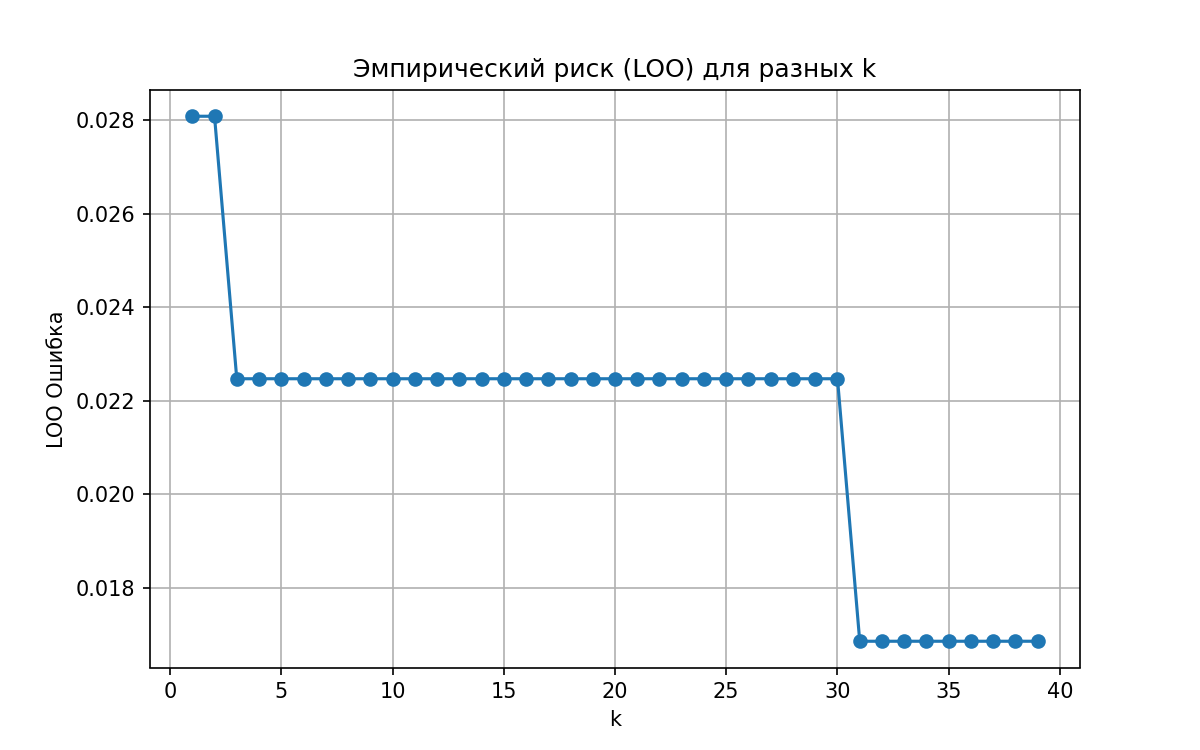
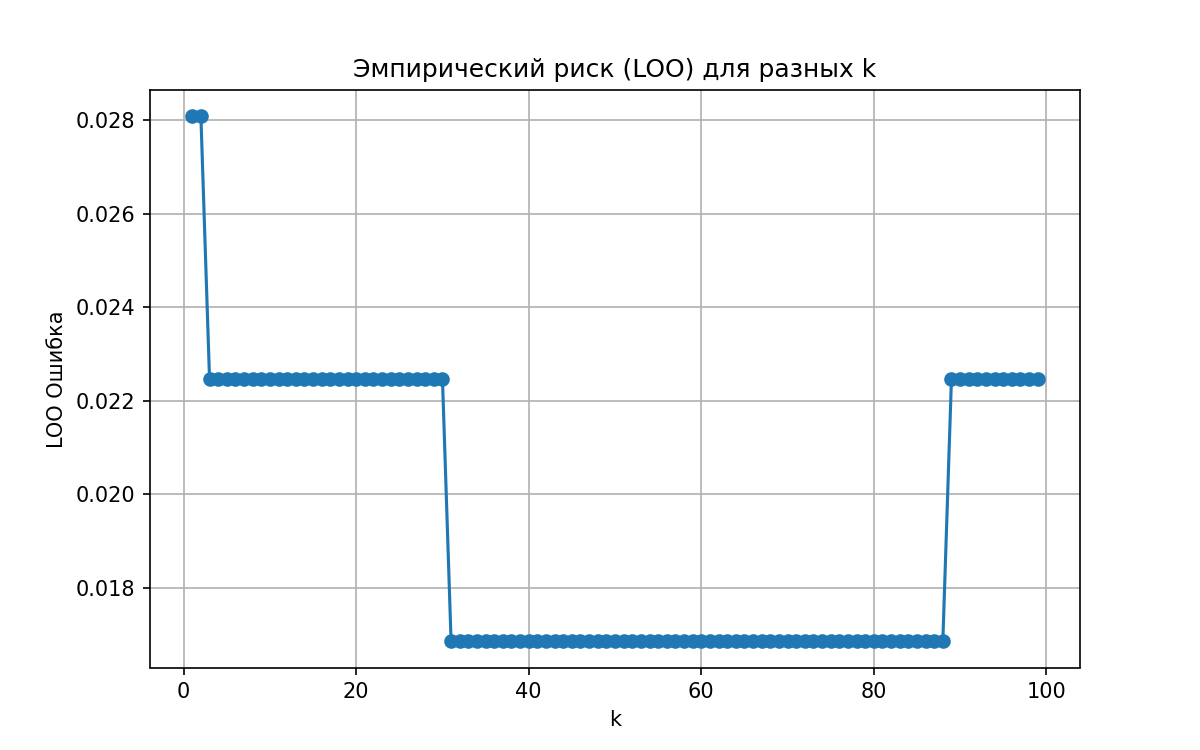
change prototype selection

diff --git a/students/botygin-gv/lab2/source/selection.py b/students/botygin-gv/lab2/source/selection.py
@@ -1,12 +1,13 @@
 import numpy as np
+from itertools import combinations
 from models import ParzenWindowKNN
 from evaluation import loo_validate
 
 
 class PrototypeSelection:
 
-    def __init__(self):
-        pass
+    def __init__(self, max_remove=2):
+        self.max_remove = max_remove
 
     def fit(self, X, y):
         X = np.array(X)
@@ -15,27 +16,40 @@ class PrototypeSelection:
         keep = np.ones(n, dtype=bool)
         best_error = loo_validate(X, y, 1, ParzenWindowKNN)
 
-        changed = True
-        while changed:
-            changed = False
+        while True:
             current_indices = np.where(keep)[0]
-            if len(current_indices) <= 1:
+            if len(current_indices) <= self.max_remove:
                 break
 
-            for idx in reversed(current_indices):
-                temp_keep = keep.copy()
-                temp_keep[idx] = False
-                X_temp = X[temp_keep]
-                y_temp = y[temp_keep]
+            best_improvement = False
+            best_combo = None
+            best_temp_error = best_error
 
-                if len(X_temp) == 0:
-                    continue
+            for r in range(1, min(self.max_remove + 1, len(current_indices))):
+                improved = False
+                for combo in combinations(current_indices, r):
+                    temp_keep = keep.copy()
+                    temp_keep[list(combo)] = False
+                    X_temp = X[temp_keep]
+                    y_temp = y[temp_keep]
 
-                error = loo_validate(X_temp, y_temp, 1, ParzenWindowKNN)
-                if error < best_error:
-                    best_error = error
-                    keep[idx] = False
-                    changed = True
+                    if len(X_temp) == 0:
+                        continue
+
+                    error = loo_validate(X_temp, y_temp, 1, ParzenWindowKNN)
+
+                    if error < best_temp_error:
+                        best_temp_error = error
+                        best_combo = combo
+                        improved = True
+
+                if improved:
+                    keep[list(best_combo)] = False
+                    best_error = best_temp_error
+                    best_improvement = True
                     break
+
+            if not best_improvement:
+                break
 
         return X[keep], y[keep]

diff --git a/students/botygin-gv/lab2/source/main.py b/students/botygin-gv/lab2/source/main.py
@@ -29,7 +29,7 @@ def main():
     X = scaler.fit_transform(X)
 
     # Подбор параметра k методом LOO
-    k_range = range(1, min(40, len(X)))
+    k_range = range(1, min(100, len(X)))
     print("Подбор оптимального k с помощью LOO")
     errors = loo_cross_validation(X, y, k_range, ParzenWindowKNN)
     optimal_k = k_range[np.argmin(errors)]

diff --git a/students/botygin-gv/lab2/README.md b/students/botygin-gv/lab2/README.md
@@ -36,7 +36,7 @@
 
 График эмпирического риска для различных значений k
 ![](./source/images/risk.png)
-На графике риска видно плато с k=3 до k=30, после чего значение ошибки снижается
+На графике риска видно плато с k=3 до k=30, после чего значение ошибки снижается, остается неизменным до k=90, затем растет
 
 ### Результаты
 
@@ -45,7 +45,7 @@
 Реализованный алгоритм показывает точность аналогичную эталонной реализации
 
 ### Отбор эталонов
-Был реализован жадный отбор эталонов по критерию CCV. После применения алгоритма количество объектов в датасете сократилось с 124 до 122
+Был реализован жадный отбор эталонов по критерию CCV. После применения алгоритма количество объектов в датасете сократилось с 124 до 118
 
 После применения алгоритма точность классификатора не изменилась
 
